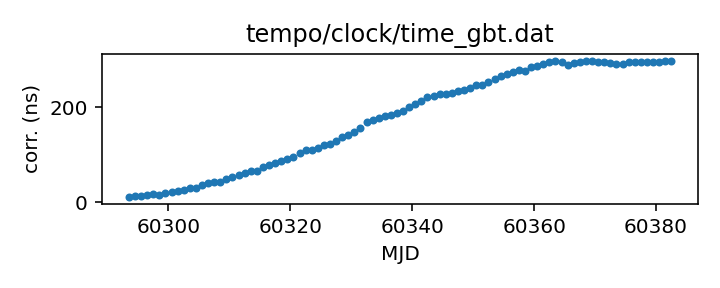
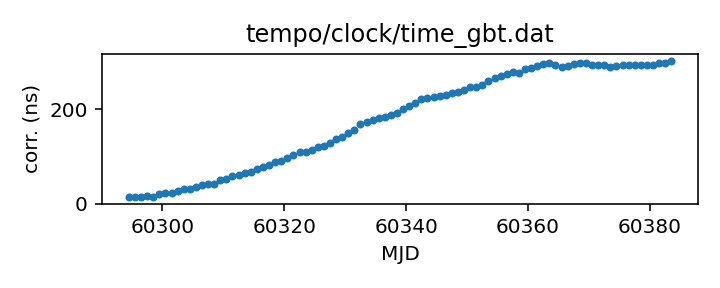
Routine gh-pages update from Github action Fri Mar 15 20:29:45 UTC 2024

diff --git a/status.md b/status.md
@@ -13,17 +13,17 @@ name of each clock file links to a page with more details.
 
 | Name | File | Corrections start | Corrections end | Last check date | Last check result 
 |:--- |:--- | --- | --- | --- |:--- 
-| [GPS to UTC](T2runtime/clock/gps2utc.clk.html) | `T2runtime/clock/gps2utc.clk` | 1993-01-01 MJD 48988.0 | 2024-02-29 MJD 60369.0 | 2024-03-14 | Unchanged 
-| [GPS to UTC (Combined Clock)](T2runtime/clock/gps2utc_cc.clk.html) | `T2runtime/clock/gps2utc_cc.clk` | 1993-01-01 MJD 48988.0 | 2024-02-29 MJD 60369.0 | 2024-03-14 | Unchanged 
-| [GPS to UTC (Corrected)](T2runtime/clock/gps2utc_c0p.clk.html) | `T2runtime/clock/gps2utc_c0p.clk` | 2010-12-29 MJD 55559.0 | 2024-02-29 MJD 60369.0 | 2024-03-14 | Unchanged 
-| [GBT](tempo/clock/time_gbt.dat.html) | `tempo/clock/time_gbt.dat` | 2000-12-31 MJD 51909.5 | 2024-03-13 MJD 60382.5 | 2024-03-14 | Updated 
-| [GBT (TEMPO2 converted from TEMPO)](T2runtime/clock/gbt2gps.clk.html) | `T2runtime/clock/gbt2gps.clk` | 2000-12-31 MJD 51909.5 | 2023-03-20 MJD 60023.5 | 2024-03-14 | **Validation failed** 
+| [GPS to UTC](T2runtime/clock/gps2utc.clk.html) | `T2runtime/clock/gps2utc.clk` | 1993-01-01 MJD 48988.0 | 2024-02-29 MJD 60369.0 | 2024-03-15 | Unchanged 
+| [GPS to UTC (Combined Clock)](T2runtime/clock/gps2utc_cc.clk.html) | `T2runtime/clock/gps2utc_cc.clk` | 1993-01-01 MJD 48988.0 | 2024-02-29 MJD 60369.0 | 2024-03-15 | Unchanged 
+| [GPS to UTC (Corrected)](T2runtime/clock/gps2utc_c0p.clk.html) | `T2runtime/clock/gps2utc_c0p.clk` | 2010-12-29 MJD 55559.0 | 2024-02-29 MJD 60369.0 | 2024-03-15 | Unchanged 
+| [GBT](tempo/clock/time_gbt.dat.html) | `tempo/clock/time_gbt.dat` | 2000-12-31 MJD 51909.5 | 2024-03-14 MJD 60383.5 | 2024-03-15 | Updated 
+| [GBT (TEMPO2 converted from TEMPO)](T2runtime/clock/gbt2gps.clk.html) | `T2runtime/clock/gbt2gps.clk` | 2000-12-31 MJD 51909.5 | 2023-03-20 MJD 60023.5 | 2024-03-15 | **Validation failed** 
 | [Jodrell Bank](T2runtime/clock/jb2gps.clk.html) | `T2runtime/clock/jb2gps.clk` | 2006-10-13 MJD 54021.4 | 2023-12-04 MJD 60282.0 | 2024-03-14 | Unchanged 
 | [Jodrell Bank Roach](T2runtime/clock/jbroach2jb.clk.html) | `T2runtime/clock/jbroach2jb.clk` | 2006-10-13 MJD 54021.4 | 2018-03-20 MJD 58197.6 | 2024-03-14 | Unchanged 
 | [Jodrell Bank DFB](T2runtime/clock/jbdfb2jb.clk.html) | `T2runtime/clock/jbdfb2jb.clk` | 2006-10-13 MJD 54021.4 | 2017-05-11 MJD 57884.0 | 2024-03-14 | Unchanged 
 | [Meerkat (observatory)](T2runtime/clock/mk2utc_observatory.clk.html) | `T2runtime/clock/mk2utc_observatory.clk` | 2019-01-01 MJD 58484.0 | 2024-01-31 MJD 60341.0 | 2024-03-14 | Unchanged 
-| [Leap seconds](tempo/clock/leap.sec.html) | `tempo/clock/leap.sec` | 1972-07-01 MJD 41499.0 | 2017-01-01 MJD 57754.0 | 2024-03-14 | Unchanged 
-| [UT1 table](tempo/clock/ut1.dat.html) | `tempo/clock/ut1.dat` | 1973-01-02 MJD 41684.0 | 2025-03-22 MJD 60756.0 | 2024-03-14 | Updated 
+| [Leap seconds](tempo/clock/leap.sec.html) | `tempo/clock/leap.sec` | 1972-07-01 MJD 41499.0 | 2017-01-01 MJD 57754.0 | 2024-03-15 | Unchanged 
+| [UT1 table](tempo/clock/ut1.dat.html) | `tempo/clock/ut1.dat` | 1973-01-02 MJD 41684.0 | 2025-03-22 MJD 60756.0 | 2024-03-15 | Unchanged 
 
 
 

diff --git a/T2runtime/clock/gbt2gps.clk.md b/T2runtime/clock/gbt2gps.clk.md
@@ -25,12 +25,11 @@ If questions arise about the conversion, contact Anne Archibald
 | Clock file start | 2000-12-31 MJD 51909.5 |
 | Clock file end | 2023-03-20 MJD 60023.5 |
 | Update interval (days) | 1 |
-| Last update attempt | 2024-03-14 |
+| Last update attempt | 2024-03-15 |
 | Last update result | Validation failed |
 
 Log entries from the last few update attempts:
 ```
-2024-03-05 20:29:52.797 - Validation failed: New version of T2runtime/clock/gbt2gps.clk clock corrections differ from old version where they overlap in 11 places
 2024-03-06 20:29:28.596 - Validation failed: New version of T2runtime/clock/gbt2gps.clk clock corrections differ from old version where they overlap in 11 places
 2024-03-07 20:29:53.392 - Validation failed: New version of T2runtime/clock/gbt2gps.clk clock corrections differ from old version where they overlap in 11 places
 2024-03-08 20:29:29.513 - Validation failed: New version of T2runtime/clock/gbt2gps.clk clock corrections differ from old version where they overlap in 11 places
@@ -40,6 +39,7 @@ Log entries from the last few update attempts:
 2024-03-12 20:29:44.974 - Validation failed: New version of T2runtime/clock/gbt2gps.clk clock corrections differ from old version where they overlap in 11 places
 2024-03-13 20:29:16.802 - Validation failed: New version of T2runtime/clock/gbt2gps.clk clock corrections differ from old version where they overlap in 11 places
 2024-03-14 20:29:26.694 - Validation failed: New version of T2runtime/clock/gbt2gps.clk clock corrections differ from old version where they overlap in 11 places
+2024-03-15 20:29:19.126 - Validation failed: New version of T2runtime/clock/gbt2gps.clk clock corrections differ from old version where they overlap in 11 places
 ```
 [Full log](https://raw.githubusercontent.com/ipta/pulsar-clock-corrections/main/log/T2runtime/clock/gbt2gps.clk.log)
 

diff --git a/tempo/clock/time_gbt.dat.md b/tempo/clock/time_gbt.dat.md
@@ -31,14 +31,13 @@ If questions arise, contact Ryan S. Lynch <rlynch@nrao.edu>.
 | Format | tempo |
 | Bogus last correction | False |
 | Clock file start | 2000-12-31 MJD 51909.5 |
-| Clock file end | 2024-03-13 MJD 60382.5 |
+| Clock file end | 2024-03-14 MJD 60383.5 |
 | Update interval (days) | 1 |
-| Last update attempt | 2024-03-14 |
+| Last update attempt | 2024-03-15 |
 | Last update result | Updated |
 
 Log entries from the last few update attempts:
 ```
-2024-03-05 20:29:52.739 - Updated
 2024-03-06 20:29:28.541 - Updated
 2024-03-07 20:29:52.990 - Updated
 2024-03-08 20:29:29.458 - Updated
@@ -48,6 +47,7 @@ Log entries from the last few update attempts:
 2024-03-12 20:29:44.917 - Updated
 2024-03-13 20:29:16.745 - Updated
 2024-03-14 20:29:26.428 - Updated
+2024-03-15 20:29:19.069 - Updated
 ```
 [Full log](https://raw.githubusercontent.com/ipta/pulsar-clock-corrections/main/log/tempo/clock/time_gbt.dat.log)
 

diff --git a/T2runtime/clock/gps2utc_c0p.clk.md b/T2runtime/clock/gps2utc_c0p.clk.md
@@ -30,12 +30,11 @@ about the BIPM's published corrections, contact <tai@bipm.org>.
 | Clock file start | 2010-12-29 MJD 55559.0 |
 | Clock file end | 2024-02-29 MJD 60369.0 |
 | Update interval (days) | 1 |
-| Last update attempt | 2024-03-14 |
+| Last update attempt | 2024-03-15 |
 | Last update result | Unchanged |
 
 Log entries from the last few update attempts:
 ```
-2024-03-05 20:29:52.301 - Unchanged
 2024-03-06 20:29:28.105 - Unchanged
 2024-03-07 20:29:46.666 - Unchanged
 2024-03-08 20:29:29.071 - Unchanged
@@ -45,6 +44,7 @@ Log entries from the last few update attempts:
 2024-03-12 20:29:43.923 - Updated
 2024-03-13 20:29:16.545 - Unchanged
 2024-03-14 20:29:26.072 - Unchanged
+2024-03-15 20:29:18.663 - Unchanged
 ```
 [Full log](https://raw.githubusercontent.com/ipta/pulsar-clock-corrections/main/log/T2runtime/clock/gps2utc_c0p.clk.log)
 

diff --git a/T2runtime/clock/gps2utc_cc.clk.md b/T2runtime/clock/gps2utc_cc.clk.md
@@ -29,12 +29,11 @@ about the BIPM's published corrections, contact <tai@bipm.org>.
 | Clock file start | 1993-01-01 MJD 48988.0 |
 | Clock file end | 2024-02-29 MJD 60369.0 |
 | Update interval (days) | 1 |
-| Last update attempt | 2024-03-14 |
+| Last update attempt | 2024-03-15 |
 | Last update result | Unchanged |
 
 Log entries from the last few update attempts:
 ```
-2024-03-05 20:29:52.292 - Unchanged
 2024-03-06 20:29:28.096 - Unchanged
 2024-03-07 20:29:46.657 - Unchanged
 2024-03-08 20:29:29.062 - Unchanged
@@ -44,6 +43,7 @@ Log entries from the last few update attempts:
 2024-03-12 20:29:43.897 - Updated
 2024-03-13 20:29:16.536 - Unchanged
 2024-03-14 20:29:26.063 - Unchanged
+2024-03-15 20:29:18.654 - Unchanged
 ```
 [Full log](https://raw.githubusercontent.com/ipta/pulsar-clock-corrections/main/log/T2runtime/clock/gps2utc_cc.clk.log)
 

diff --git a/T2runtime/clock/gps2utc.clk.md b/T2runtime/clock/gps2utc.clk.md
@@ -32,12 +32,11 @@ about the BIPM's published corrections, contact <tai@bipm.org>.
 | Clock file start | 1993-01-01 MJD 48988.0 |
 | Clock file end | 2024-02-29 MJD 60369.0 |
 | Update interval (days) | 1 |
-| Last update attempt | 2024-03-14 |
+| Last update attempt | 2024-03-15 |
 | Last update result | Unchanged |
 
 Log entries from the last few update attempts:
 ```
-2024-03-05 20:29:52.264 - Unchanged
 2024-03-06 20:29:28.070 - Unchanged
 2024-03-07 20:29:46.631 - Unchanged
 2024-03-08 20:29:29.037 - Unchanged
@@ -47,6 +46,7 @@ Log entries from the last few update attempts:
 2024-03-12 20:29:43.834 - Updated
 2024-03-13 20:29:16.510 - Unchanged
 2024-03-14 20:29:26.038 - Unchanged
+2024-03-15 20:29:18.628 - Unchanged
 ```
 [Full log](https://raw.githubusercontent.com/ipta/pulsar-clock-corrections/main/log/T2runtime/clock/gps2utc.clk.log)
 

diff --git a/tempo/clock/ut1.dat.md b/tempo/clock/ut1.dat.md
@@ -30,12 +30,11 @@ If there are any questions, contact Anne Archibald
 | File start | 1973-01-02 MJD 41684.0 |
 | File end | 2025-03-22 MJD 60756.0 |
 | Update interval (days) | 0 |
-| Last update attempt | 2024-03-14 |
-| Last update result | Updated |
+| Last update attempt | 2024-03-15 |
+| Last update result | Unchanged |
 
 Log entries from the last few update attempts:
 ```
-2024-03-05 20:30:01.155 - Unchanged
 2024-03-06 20:29:38.037 - Unchanged
 2024-03-07 20:30:15.605 - Updated
 2024-03-08 20:29:37.179 - Unchanged
@@ -45,5 +44,6 @@ Log entries from the last few update attempts:
 2024-03-12 20:29:57.914 - Unchanged
 2024-03-13 20:29:25.426 - Unchanged
 2024-03-14 20:29:50.414 - Updated
+2024-03-15 20:29:27.021 - Unchanged
 ```
 [Full log](https://raw.githubusercontent.com/ipta/pulsar-clock-corrections/main/log/tempo/clock/ut1.dat.log)

diff --git a/tempo/clock/leap.sec.md b/tempo/clock/leap.sec.md
@@ -21,12 +21,11 @@ If there are any questions, contact Anne Archibald
 | File start | 1972-07-01 MJD 41499.0 |
 | File end | 2017-01-01 MJD 57754.0 |
 | Update interval (days) | 0 |
-| Last update attempt | 2024-03-14 |
+| Last update attempt | 2024-03-15 |
 | Last update result | Unchanged |
 
 Log entries from the last few update attempts:
 ```
-2024-03-05 20:29:52.826 - Unchanged
 2024-03-06 20:29:28.972 - Unchanged
 2024-03-07 20:30:07.076 - Unchanged
 2024-03-08 20:29:29.542 - Unchanged
@@ -36,5 +35,6 @@ Log entries from the last few update attempts:
 2024-03-12 20:29:45.004 - Unchanged
 2024-03-13 20:29:17.166 - Unchanged
 2024-03-14 20:29:41.655 - Unchanged
+2024-03-15 20:29:19.155 - Unchanged
 ```
 [Full log](https://raw.githubusercontent.com/ipta/pulsar-clock-corrections/main/log/tempo/clock/leap.sec.log)
